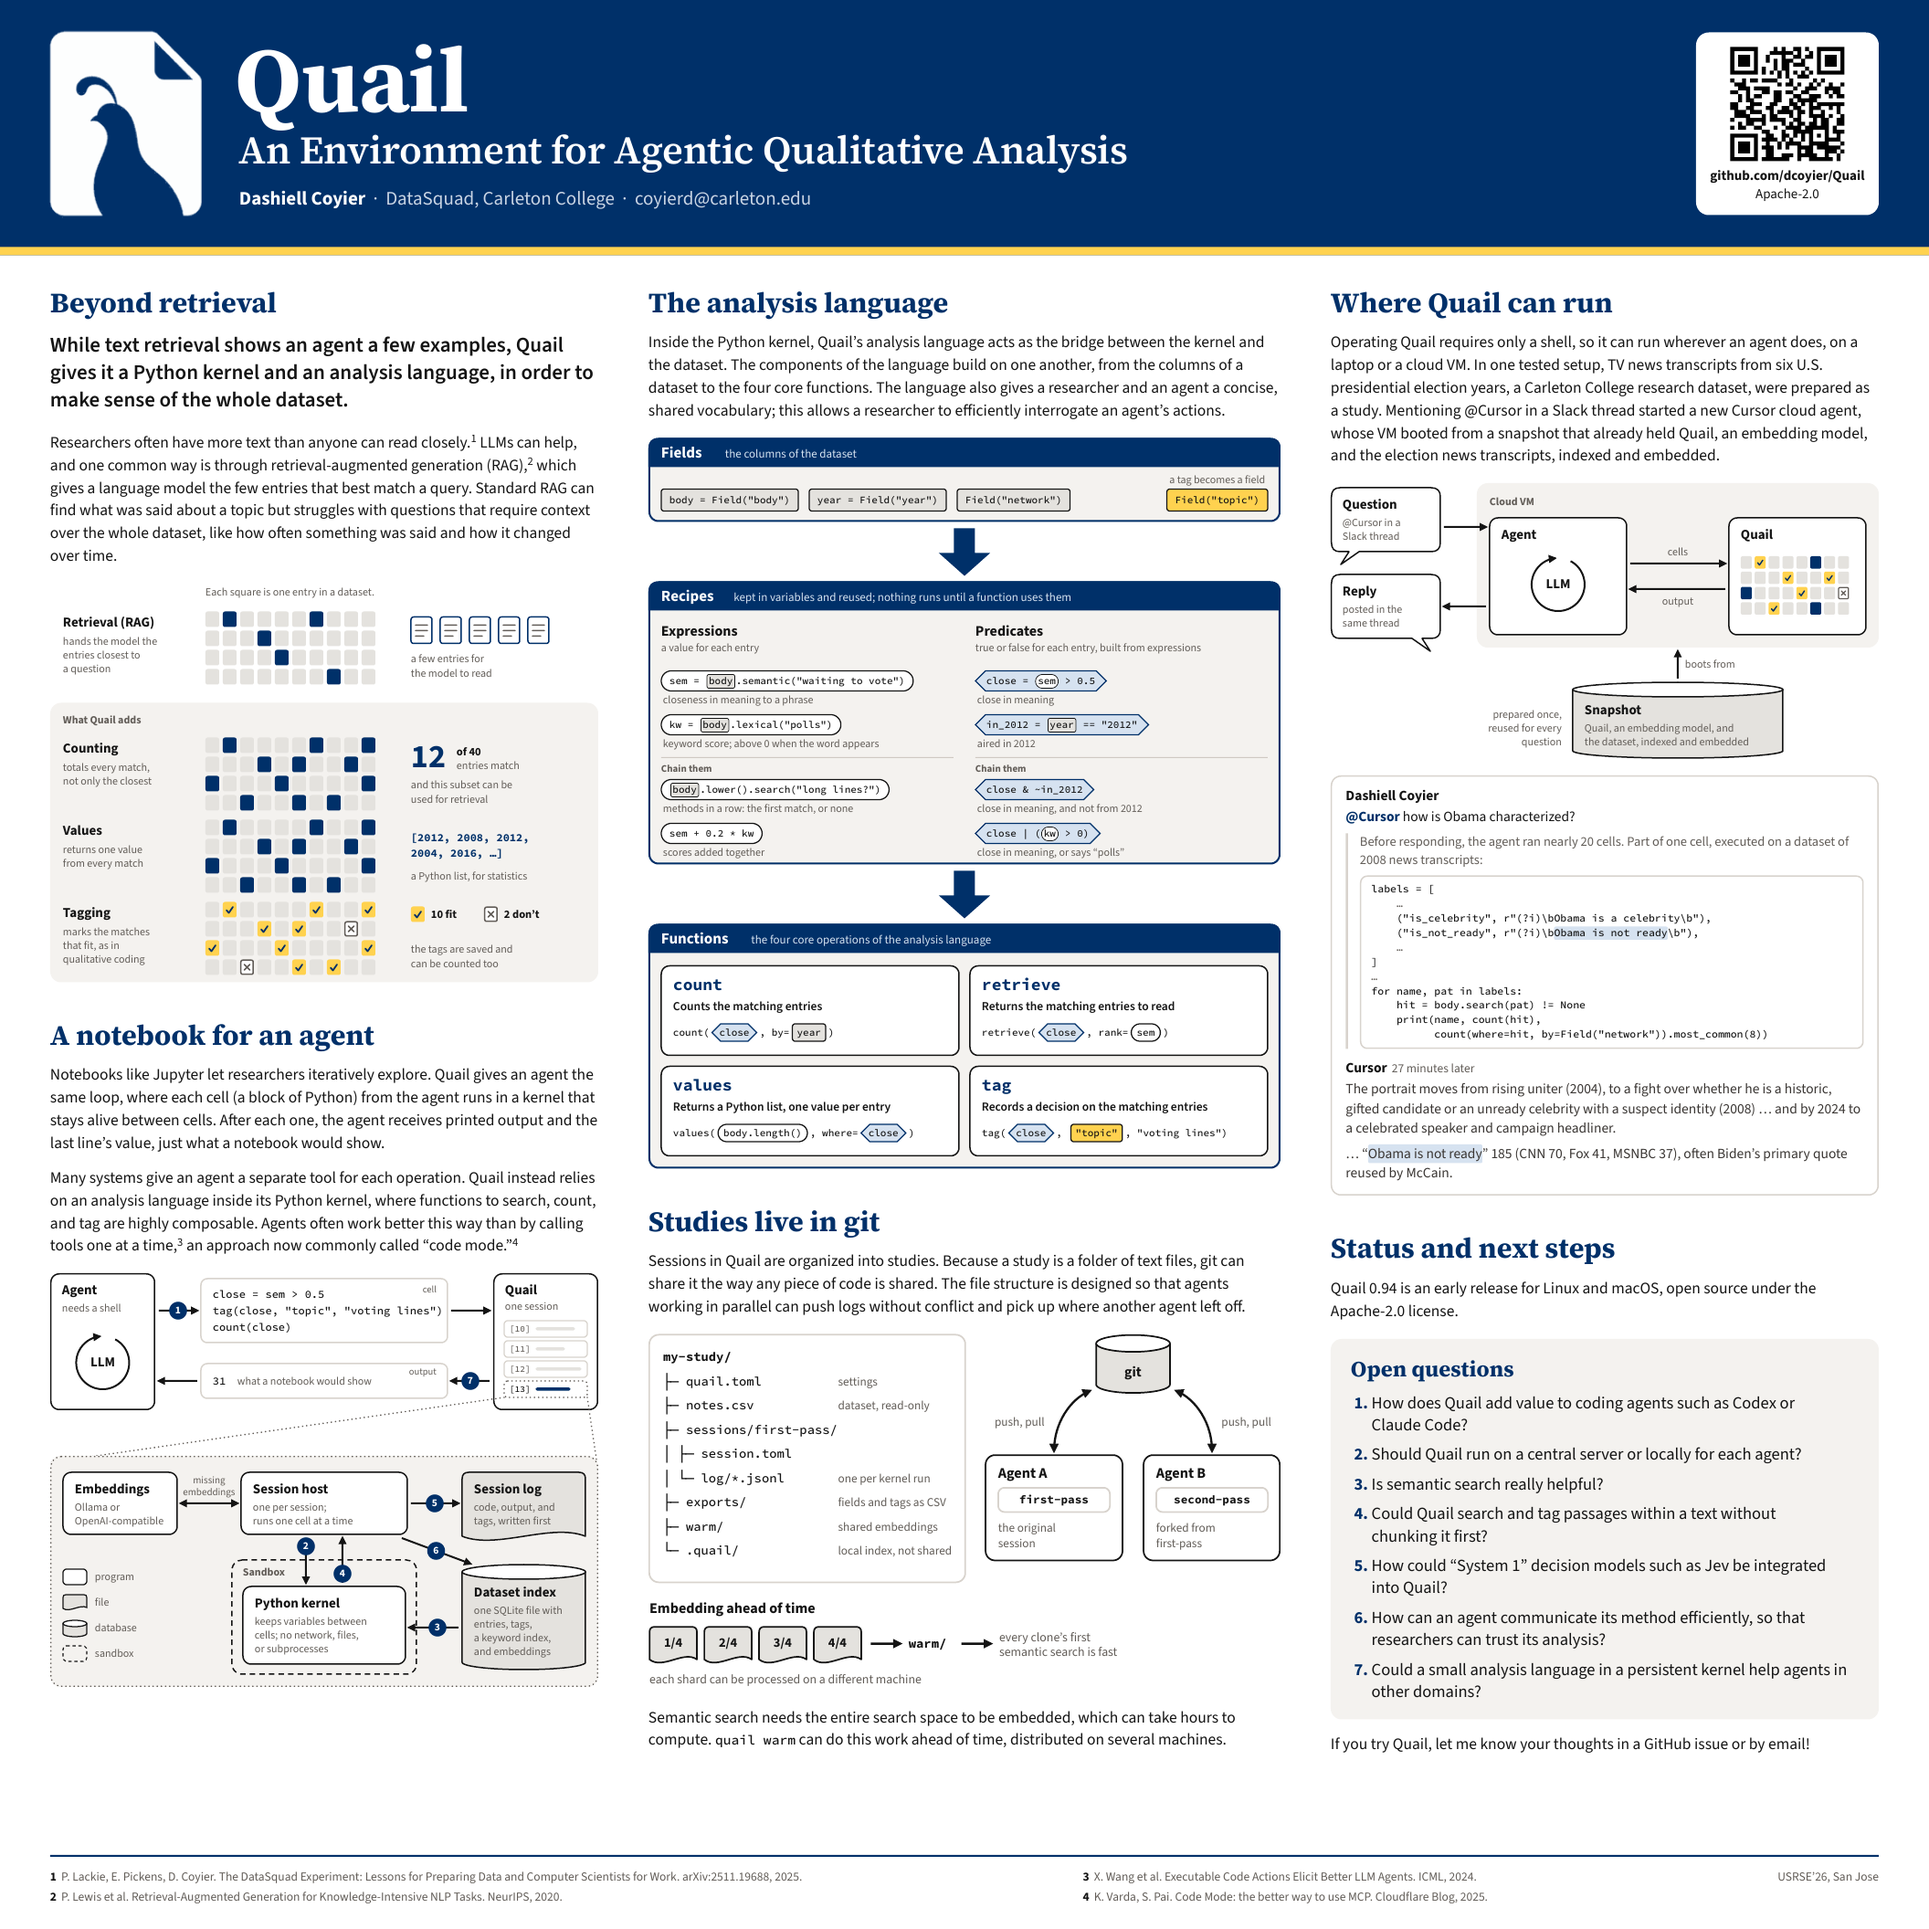
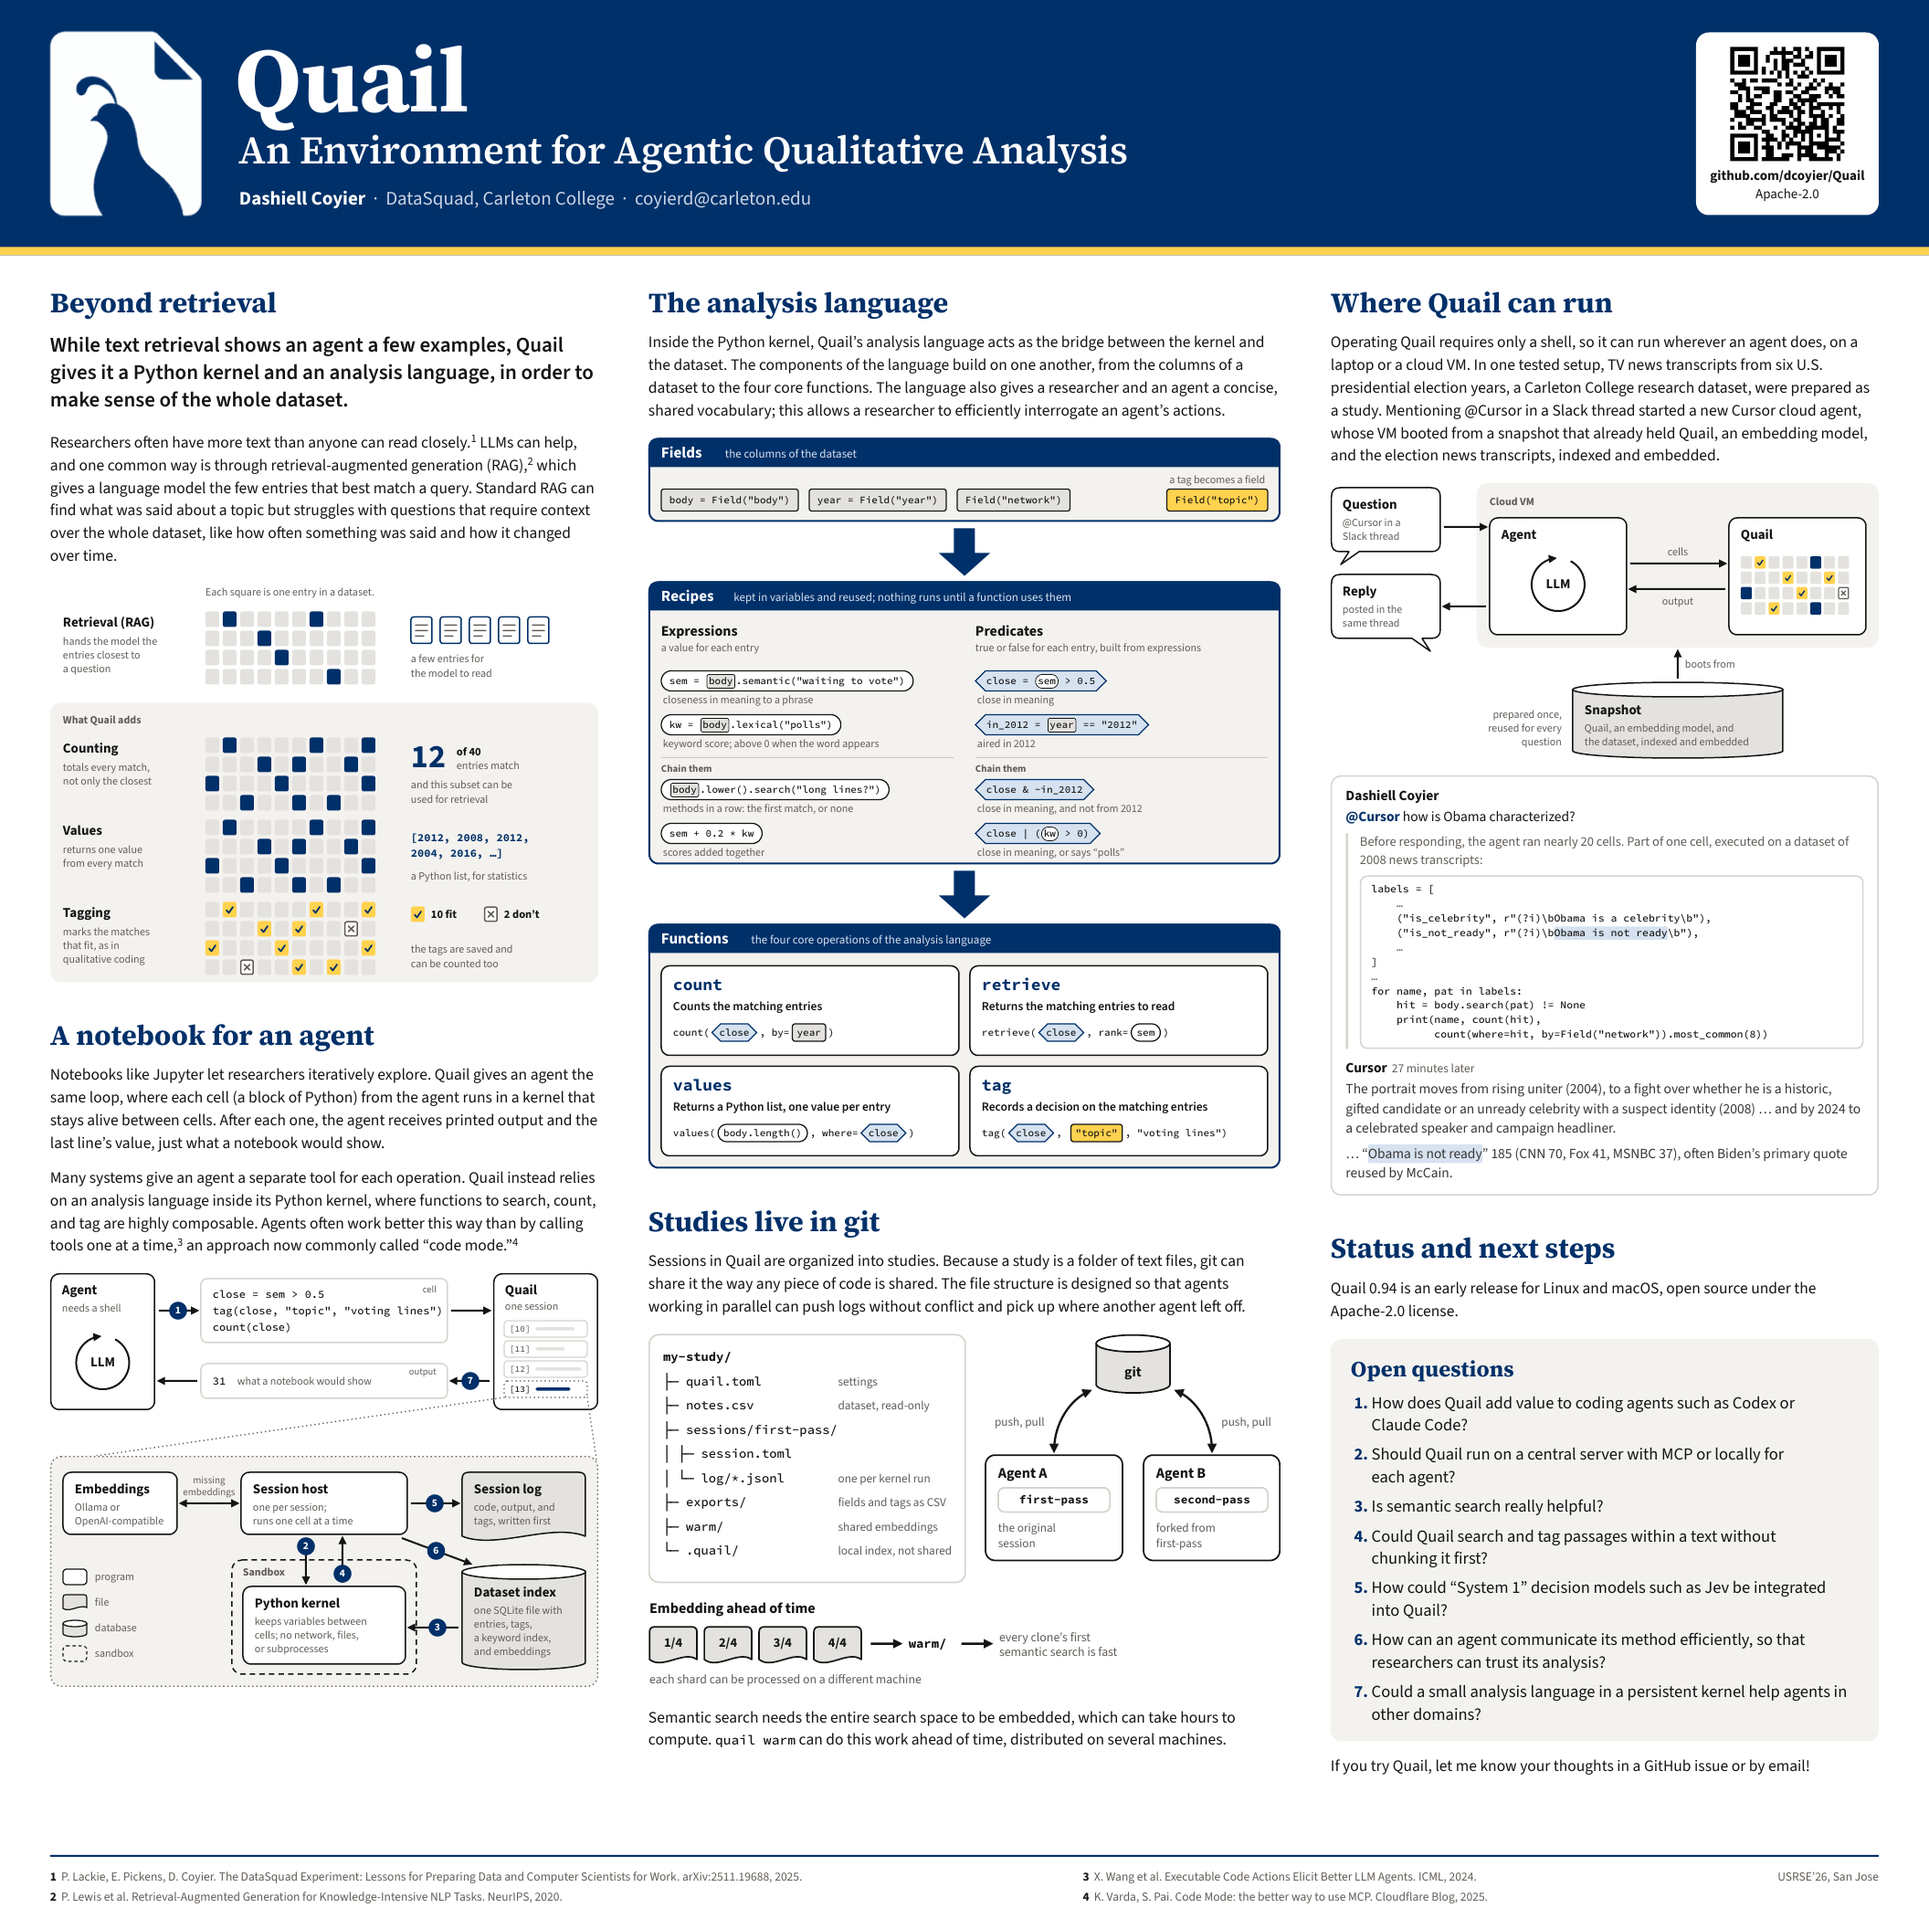
Mention MCP in the central-server open question
Claude-Session: https://claude.ai/code/session_01ChZ8DmmKvsKSV4JFVieZLU

Changed region(s): [[0.6875, 0.75, 0.9375, 0.9062]]

diff --git a/poster/poster.html b/poster/poster.html
@@ -93,7 +93,7 @@ for name, pat in labels:
     <h3>Open questions</h3>
     <ol>
       <li>How does Quail add value to coding agents such as Codex or Claude&nbsp;Code?</li>
-      <li>Should Quail run on a central server or locally for each&nbsp;agent?</li>
+      <li>Should Quail run on a central server with MCP or locally for each&nbsp;agent?</li>
       <li>Is semantic search really helpful?</li>
       <li>Could Quail search and tag passages within a text without chunking&nbsp;it&nbsp;first?</li>
       <li>How could &ldquo;System&nbsp;1&rdquo; decision models such as Jev be integrated into&nbsp;Quail?</li>
